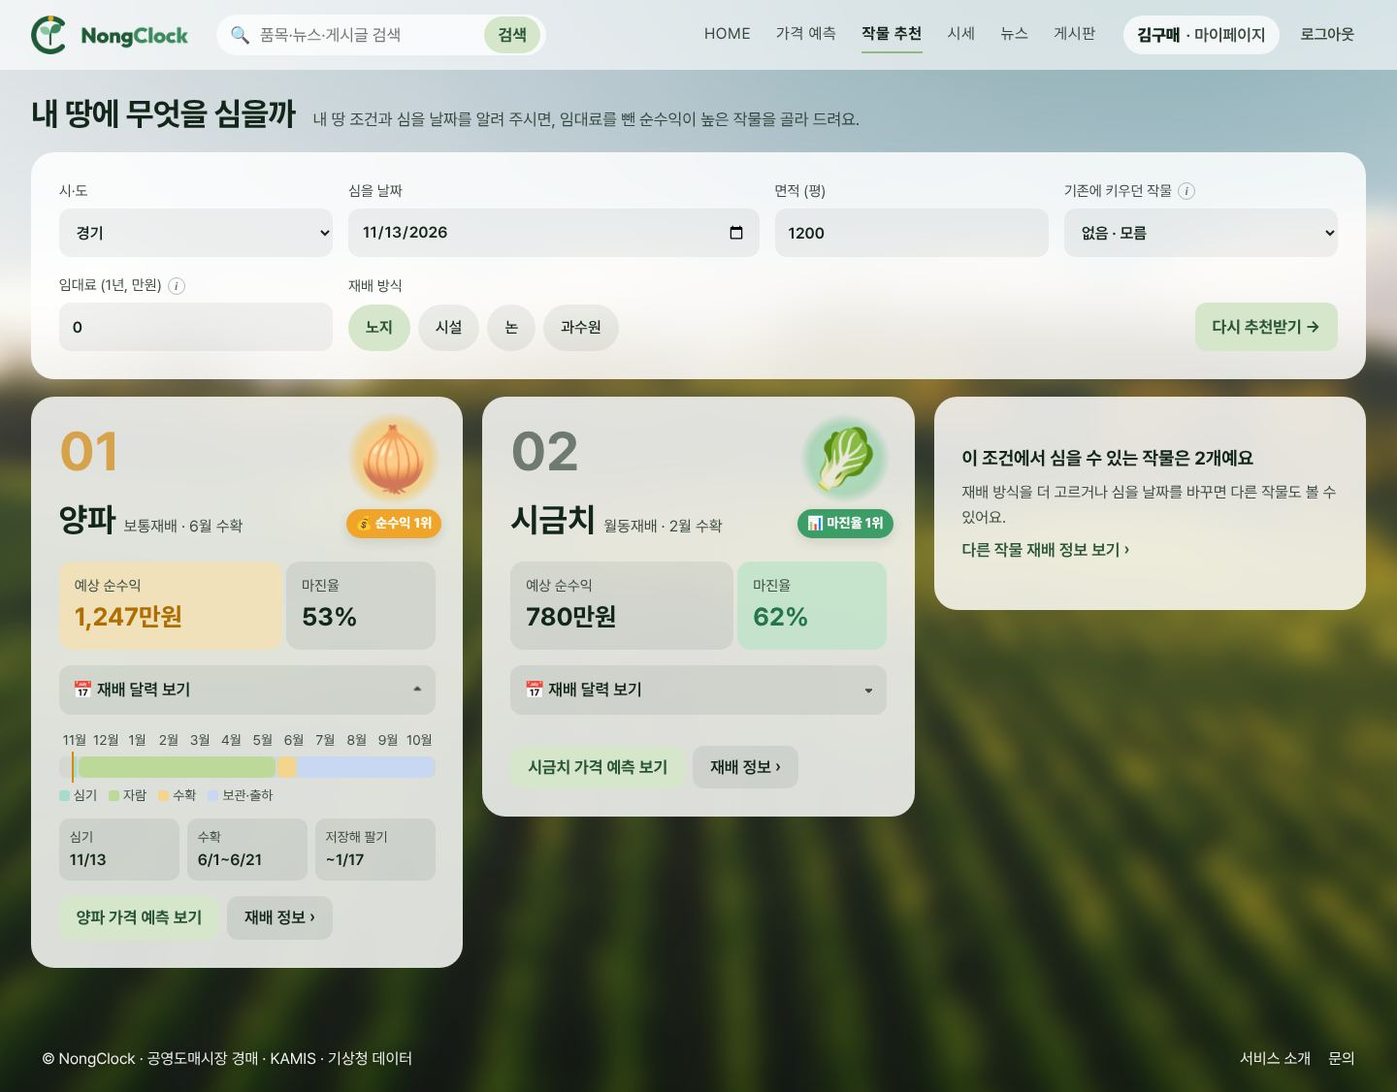
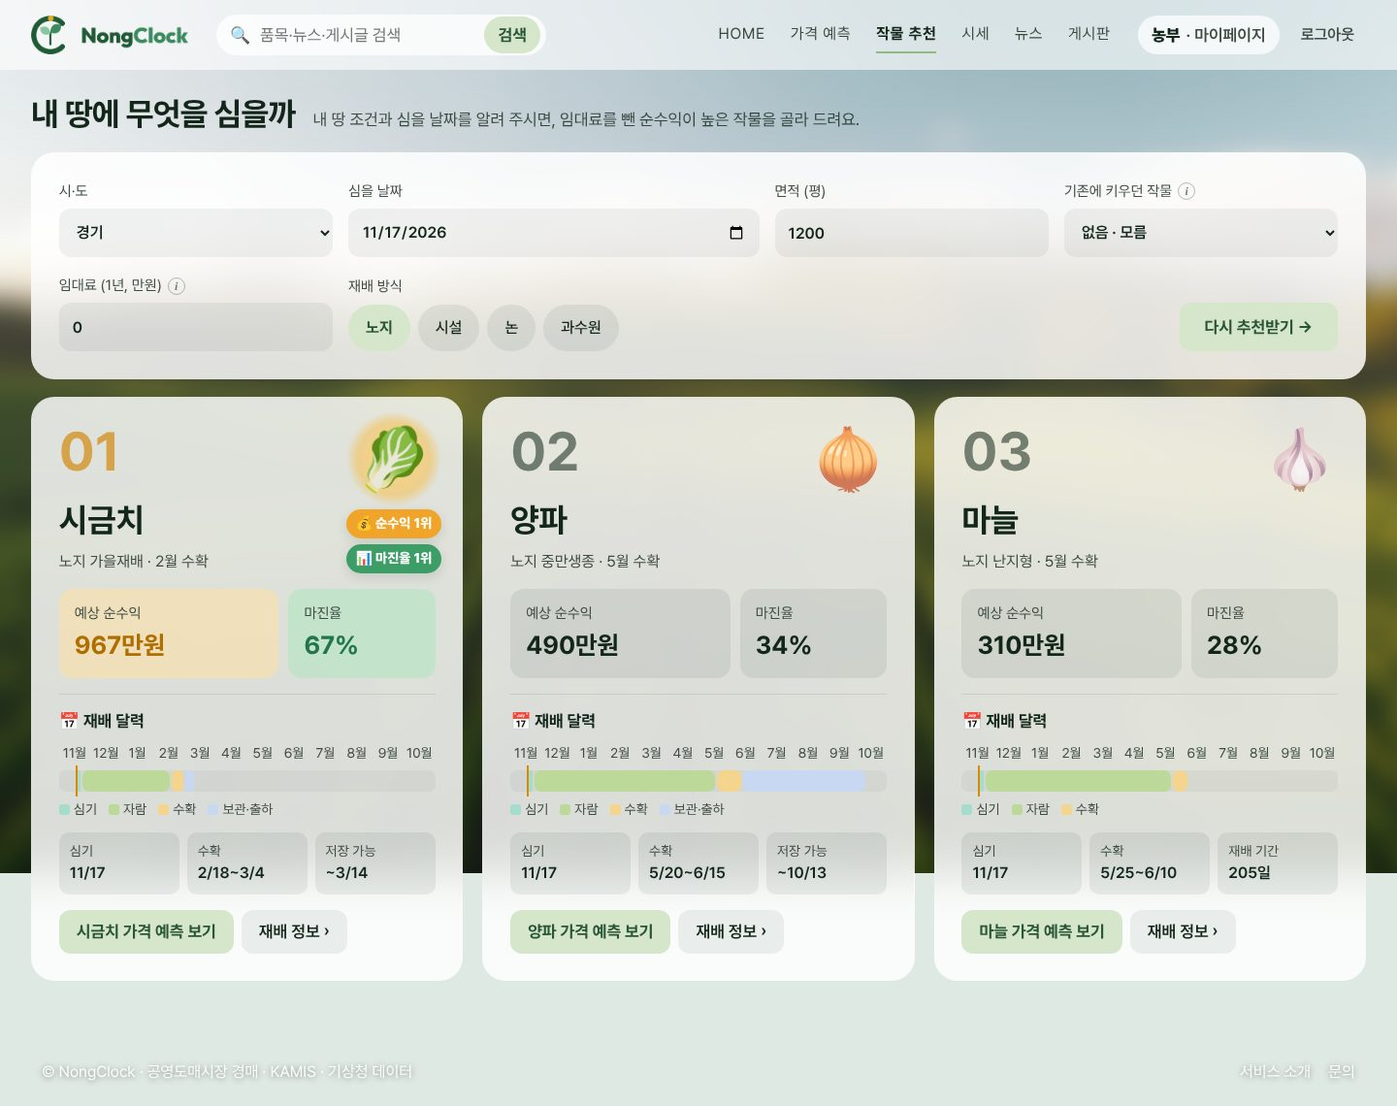
feat(ui): 서비스 소개 도착 칸 강조 · 작물 추천 재배 달력 늘 보임 · 관심 품목 고르기 개편
- 서비스 소개: 다른 화면 링크(#faq-range 등)로 들어오면 그 칸을 2.6초 동안 강조
  (노란 바탕 + 주황 테두리, #items 는 "50 품목" 숫자 칸, 움직임 줄이기 설정 대응)
- 작물 추천: 재배 달력 접기 버튼을 없애고 늘 펼침, 같은 줄 카드 높이를 같게 (버튼 줄은 맨 아래)
- 마이페이지 관심 품목 고르기: 고른 품목 줄(× 빼기) · 이름/초성 검색 · 부류 탭 · 품목 칸
  (저장은 팀의 차례 저장 방식 그대로 PUT /api/me/favorites, 품목 목록은 shared/items50.json)
- docs/05_ui_spec.md 3·8·10장 + 변경 이력, 캡처 03_recommend · 08_about 교체, 10b_mypage_watch 추가

Claude-Session: https://claude.ai/code/session_01A5Bz2YFgwDEj3wEsMnATng

diff --git a/frontend/src/pages/mypage/Favorites.jsx b/frontend/src/pages/mypage/Favorites.jsx
@@ -1,11 +1,11 @@
 import { useEffect, useRef, useState } from "react";
-import { getItems, predict } from "../../api/ml";
+import { predict } from "../../api/ml";
 import { getTodayPrices } from "../../api/market";
 import { useAuth } from "../../components/AuthContext";
 import { Async, PctChange, PriceChange, SectionHead, useAsync } from "../../components/common";
 import { wonPerKg } from "../../utils/format";
 import ItemImage from "../../components/ItemImage";
-import { IN50 } from "../../mocks/items50";
+import { CATEGORIES50, ITEMS50, itemOf } from "../../mocks/items50";
 
 /** 관심 품목의 오늘 시세 변동 + AI 1주 예측 (마이페이지 상단) */
 export default function FavoriteAlerts({ onEdit }) {
@@ -48,17 +48,25 @@ export default function FavoriteAlerts({ onEdit }) {
   );
 }
 
+/* 관심 품목 고르기 화면 (11-16): 50개를 한 번에 늘어놓지 않고
+   위에 "고른 품목"(× 로 빼기) · 이름/초성 검색 · 부류 탭 → 그 부류 품목만 칸으로 보여 줌. 품목 목록은 shared/items50.json (서버 없이도 뜸) */
+const CHO = "ㄱㄲㄴㄷㄸㄹㅁㅂㅃㅅㅆㅇㅈㅉㅊㅋㅌㅍㅎ";
+const choOf = (s) => [...s].map((ch) => { const c = ch.charCodeAt(0) - 0xac00; return c >= 0 && c < 11172 ? CHO[Math.floor(c / 588)] : ch; }).join("");
+const matches = (name, q) => name.includes(q) || choOf(name).includes(q);
+
 /** 관심 품목 고르기 탭.
  * 11-16: 빠르게 연달아 누르면 하나가 빠지던 문제 — 예전엔 서버 응답(로그인 정보)이 오기 전의 목록으로 다음 저장을 만들어
  * 마지막 저장이 앞의 것을 덮었다. 이제 화면 목록을 바로 바꾸고(latest), 저장은 한 번에 하나씩 차례로 '가장 최근 목록'을 보낸다 */
 export function FavoritePicker() {
   const { user, updateProfile } = useAuth();
-  const items = useAsync(getItems);
   const saved = user.favorites ?? [];
   const [picked, setPicked] = useState(saved);
   const [err, setErr] = useState("");
   const latest = useRef(saved);
   const pending = useRef(0);
+  // 처음 탭: 첫 관심 품목의 부류 (없으면 첫 부류). "전체"는 맨 끝에 둬서 50개가 한꺼번에 뜨지 않게
+  const [cat, setCat] = useState(() => itemOf(saved[0])?.category ?? CATEGORIES50[0]);
+  const [q, setQ] = useState("");
   const chain = useRef(Promise.resolve());
   // 다른 곳(로그인·새로 고침)에서 목록이 바뀌면 따라감 — 저장 중에는 화면 목록이 더 최신이라 그대로 둠
   useEffect(() => {
@@ -81,21 +89,46 @@ export function FavoritePicker() {
         pending.current -= 1;
       });
   };
+  const query = q.replace(/\s/g, "");
+  const shown = query ? ITEMS50.filter((i) => matches(i.name, query)) : ITEMS50.filter((i) => cat === "전체" || i.category === cat);
+  const chosen = picked.map(itemOf).filter(Boolean);
   return (
-    <section className="card">
-      <SectionHead title="관심 품목" desc="탭해서 추가·해제 · 고른 품목은 위 가격 변동에 쓰여요" />
+    <section className="card mp-fav">
+      <SectionHead title="관심 품목" desc="고른 품목은 마이페이지 위 '관심 품목 가격'에 보여요" />
       {err && <p className="error small" role="alert">{err}</p>}
-      <Async state={items}>
-        {(rows) => (
-          <div className="pills">
-            {rows.filter((i) => IN50.has(i.code)).map((i) => (
-              <button key={i.code} className={`pill ${picked.includes(i.code) ? "on" : ""}`} aria-pressed={picked.includes(i.code)} onClick={() => toggle(i.code)}>
-                <ItemImage code={i.code} emoji={i.emoji} alt="" className="xs" /> {i.name}
+      <div className="mp-fav-picked">
+        <span className="lbl">고른 품목 <b>{chosen.length}</b></span>
+        {chosen.length ? chosen.map((i) => (
+          <button key={i.code} type="button" className="chip" onClick={() => toggle(i.code)} aria-label={`${i.name} 빼기`}>
+            <ItemImage code={i.code} emoji={i.emoji} alt="" className="xs" /> {i.name} <span aria-hidden>×</span>
+          </button>
+        )) : <span className="none">아래에서 품목을 눌러 담아 보세요</span>}
+      </div>
+      <div className="mp-fav-bar">
+        <input className="input" type="search" value={q} onChange={(e) => setQ(e.target.value)} placeholder="🔍 품목 이름 또는 초성 (예: ㅇㅍ)" aria-label="품목 검색" />
+        <div className="mp-fav-cats" role="tablist">
+          {[...CATEGORIES50, "전체"].map((c) => (
+            <button key={c} type="button" role="tab" aria-selected={!query && cat === c} className={!query && cat === c ? "on" : ""} onClick={() => { setCat(c); setQ(""); }}>
+              {c}<em>{c === "전체" ? ITEMS50.length : ITEMS50.filter((i) => i.category === c).length}</em>
+            </button>
+          ))}
+        </div>
+      </div>
+      {query && <p className="mp-fav-res">'{q.trim()}' 검색 결과 {shown.length}개</p>}
+      {shown.length ? (
+        <div className="mp-fav-grid">
+          {shown.map((i) => {
+            const on = picked.includes(i.code);
+            return (
+              <button key={i.code} type="button" className={on ? "on" : ""} aria-pressed={on} onClick={() => toggle(i.code)}>
+                <ItemImage code={i.code} emoji={i.emoji} alt="" className="sm" />
+                <span>{i.name}</span>
+                <i aria-hidden>{on ? "✓" : "+"}</i>
               </button>
-            ))}
-          </div>
-        )}
-      </Async>
+            );
+          })}
+        </div>
+      ) : <p className="mp-fav-res">찾는 품목이 없어요. 예측 품목 50개 안에서만 고를 수 있어요.</p>}
     </section>
   );
 }

diff --git a/frontend/src/pages/mypage/mypage.css b/frontend/src/pages/mypage/mypage.css
@@ -65,3 +65,28 @@
 .mp-danger { margin-top: 10px; border: 0; background: none; cursor: pointer; font: inherit; font-size: 15px; color: var(--muted); text-decoration: underline; text-underline-offset: 3px; padding: 0; }
 @media (max-width: 1200px) { .mp-grid { grid-template-columns: 1fr; } .mp-favs { grid-template-columns: repeat(2, minmax(0, 1fr)); } }
 @media (max-width: 640px) { .mp-stats { grid-template-columns: 1fr 1fr; gap: 12px 0; } .mp-stats > *:nth-child(3) { border-left: 0; } .mp-stats.n3 { grid-template-columns: repeat(3, 1fr); } .mp-stats.n3 > * { padding: 2px 10px; } .mp-stats.n3 > *:nth-child(3) { border-left: 1px solid var(--line); } .mp-btns { margin-left: 0; } }
+/* 관심 품목 고르기 (11-16): 고른 품목 줄 · 검색 + 부류 탭 · 품목 칸 */
+.mp-fav { display: grid; gap: 14px; }
+.mp-fav-picked { display: flex; flex-wrap: wrap; align-items: center; gap: 8px; padding: 12px 14px; border-radius: 14px; background: rgba(213, 230, 203, 0.45); }
+.mp-fav-picked .lbl { font-size: 15px; color: var(--muted); margin-right: 4px; }
+.mp-fav-picked .lbl b { color: var(--brand); }
+.mp-fav-picked .chip { display: inline-flex; align-items: center; gap: 6px; border: 0; cursor: pointer; font: inherit; font-size: 15px; font-weight: 600; color: var(--brand); background: #fff; border-radius: 999px; padding: 6px 12px 6px 8px; }
+.mp-fav-picked .chip span { color: var(--muted); font-weight: 400; margin-left: 2px; }
+.mp-fav-picked .chip:hover span { color: #c0392b; }
+.mp-fav-picked .none { font-size: 15px; color: var(--muted); }
+.mp-fav-bar { display: grid; gap: 10px; }
+.mp-fav-bar .input { width: 100%; max-width: 420px; box-sizing: border-box; }
+.mp-fav-cats { display: flex; gap: 6px; overflow-x: auto; padding-bottom: 2px; scrollbar-width: thin; }
+.mp-fav-cats button { flex: none; border: 0; cursor: pointer; font: inherit; font-size: 15px; color: var(--ink); background: var(--chip); border-radius: 999px; padding: 8px 14px; }
+.mp-fav-cats button em { font-style: normal; font-size: 13px; color: var(--muted); margin-left: 5px; }
+.mp-fav-cats button.on { background: var(--brand); color: #fff; font-weight: 700; }
+.mp-fav-cats button.on em { color: rgba(255, 255, 255, 0.75); }
+.mp-fav-res { margin: 0; font-size: 15px; color: var(--muted); }
+.mp-fav-grid { display: grid; grid-template-columns: repeat(auto-fill, minmax(200px, 1fr)); gap: 8px; }
+.mp-fav-grid button { display: flex; align-items: center; gap: 10px; border: 2px solid transparent; cursor: pointer; font: inherit; font-size: 16px; font-weight: 600; color: var(--ink); text-align: left; background: rgba(255, 255, 255, 0.75); border-radius: 14px; padding: 10px 12px; }
+.mp-fav-grid button span { flex: 1; min-width: 0; white-space: nowrap; overflow: hidden; text-overflow: ellipsis; }
+.mp-fav-grid button i { font-style: normal; flex: none; width: 24px; height: 24px; border-radius: 50%; display: grid; place-items: center; font-size: 14px; color: var(--muted); background: rgba(19, 38, 26, 0.07); }
+.mp-fav-grid button:hover { border-color: var(--accent-h); }
+.mp-fav-grid button.on { background: #eef6e8; border-color: #9cc78a; color: var(--brand); }
+.mp-fav-grid button.on i { background: var(--brand); color: #fff; }
+@media (max-width: 560px) { .mp-fav-grid { grid-template-columns: repeat(2, minmax(0, 1fr)); } .mp-fav-grid button { gap: 6px; padding: 8px 8px; font-size: 15px; } .mp-fav-grid button i { width: 20px; height: 20px; font-size: 12px; } }

diff --git a/frontend/src/pages/recommend.css b/frontend/src/pages/recommend.css
@@ -5,7 +5,8 @@
 .rc-f .input { height: 50px; width: 100%; font-weight: 600; }
 .rc-f .pills .pill { padding: 12px 18px; font-size: 16px; }
 .rc-go { grid-column: -2 / -1; justify-self: end; height: 50px; padding: 0 26px; font-size: 17px; }
-.rc-top3 { display: grid; grid-template-columns: repeat(3, minmax(0, 1fr)); gap: 20px; align-items: start; }
+/* 11-16: 카드 높이를 같은 줄끼리 맞춤 (stretch) · 버튼 줄은 .rc-acts margin-top:auto 로 바닥에 */
+.rc-top3 { display: grid; grid-template-columns: repeat(3, minmax(0, 1fr)); gap: 20px; align-items: stretch; }
 .rc-card { position: relative; display: flex; flex-direction: column; gap: 16px; overflow: hidden; }
 .rc-n { font-size: 56px; font-weight: 700; line-height: 1; color: rgba(19, 38, 26, 0.55); }
 .rc-n.first { color: #d6a24a; }
@@ -28,12 +29,6 @@
 .rc-ref { align-self: flex-start; font-size: 15px; color: #7a5a12; background: rgba(246, 224, 176, 0.6); padding: 5px 10px; border-radius: 8px; }
 .rc-why { list-style: none; margin: 0; padding: 0; display: grid; gap: 10px; font-size: 17px; line-height: 1.5; }
 .rc-why li { display: flex; gap: 10px; } .rc-why li::before { content: "✓"; color: #2b7a4b; font-weight: 700; }
-.rc-toggle { display: flex; align-items: center; justify-content: space-between; width: 100%; border: 0; cursor: pointer; font: inherit; font-size: 17px; font-weight: 600; color: var(--ink); background: var(--chip); border-radius: 12px; padding: 12px 14px; }
-.rc-toggle .ar { transition: transform 0.35s; color: var(--muted); }
-.rc-card.open .rc-toggle .ar { transform: rotate(180deg); }
-.rc-exp { display: grid; grid-template-rows: 0fr; transition: grid-template-rows 0.45s cubic-bezier(0.2, 0.8, 0.2, 1); }
-.rc-exp > div { overflow: hidden; }
-.rc-card.open .rc-exp { grid-template-rows: 1fr; }
 .rc-mini .mm { display: grid; grid-template-columns: repeat(12, 1fr); font-size: 14px; color: var(--muted); text-align: center; margin-bottom: 6px; }
 .rc-mini .tr { position: relative; height: 22px; border-radius: 7px; background: rgba(19, 38, 26, 0.04); }
 .rc-mini .tr i { position: absolute; top: 0; height: 22px; border-radius: 7px; }
@@ -45,6 +40,7 @@
 .rc-mini .when { display: grid; grid-template-columns: repeat(3, 1fr); gap: 8px; margin-top: 12px; }
 .rc-mini .when div { background: var(--chip); border-radius: 10px; padding: 9px 11px; font-size: 14px; color: var(--muted); }
 .rc-mini .when b { display: block; font-size: 16px; color: var(--ink); font-weight: 600; }
+.rc-calhead { font-size: 17px; font-weight: 700; color: var(--ink); padding-top: 14px; border-top: 1px solid var(--line); margin-bottom: -6px; }
 .rc-acts { margin-top: auto; display: flex; gap: 8px; flex-wrap: wrap; }
 
 /* 작물 정보 */

diff --git a/frontend/src/pages/About.jsx b/frontend/src/pages/About.jsx
@@ -12,7 +12,8 @@ import "./about.css";
 const N_ITEMS = ITEMS50.length;
 const N_MARKETS = MARKETS.filter((m) => m.code !== "national").length;
 const N_VARIETIES = ITEMS50.reduce((n, i) => n + (i.varieties?.length ?? 0), 0);
-const STATS = [[N_MARKETS, "곳", "공영 도매시장"], [N_ITEMS, "품목", `예측 품목 · 품종 ${N_VARIETIES}가지`], [1, "년", "최대 예측 기간"], ["매일", "", "새 시세로 예측 갱신"]];
+// [값, 단위, 설명, 강조 대상 주소] — 홈의 "품목 50개"(#items)로 들어오면 품목 칸이 깜빡임 (11-16)
+const STATS = [[N_MARKETS, "곳", "공영 도매시장"], [N_ITEMS, "품목", `예측 품목 · 품종 ${N_VARIETIES}가지`, "items"], [1, "년", "최대 예측 기간"], ["매일", "", "새 시세로 예측 갱신"]];
 
 // ✏ 팀 정보와 연락처는 여기만 고치면 된다.
 const TEAM = [
@@ -66,14 +67,23 @@ const FAQ = [
 
 export default function About() {
   // #faq-xxx 로 들어오면 그 질문을 펼치고 그 자리로 (머리말 높이만큼은 CSS scroll-margin)
-  const { hash } = useLocation();
+  // 들어온 직후 그 칸을 잠깐 강조 (11-16). 같은 링크를 다시 눌러도 다시 깜빡이도록 location.key 로 다시 실행
+  const { hash, key } = useLocation();
   useEffect(() => {
     if (!hash) return;
-    const el = document.getElementById(decodeURIComponent(hash.slice(1)));
+    const id = decodeURIComponent(hash.slice(1));
+    const el = document.getElementById(id);
     if (!el) return;
     if (el.tagName === "DETAILS") el.open = true;
     requestAnimationFrame(() => el.scrollIntoView({ block: "start" }));
-  }, [hash]);
+    // 강조할 칸: data-flash 로 따로 정한 칸(예: #items → "품목" 숫자 칸)이 있으면 그것, 없으면 주소 칸 자체
+    const target = document.querySelector(`[data-flash~="${id}"]`) ?? el;
+    target.classList.remove("ab-flash");
+    void target.offsetWidth; // 애니메이션을 처음부터 다시
+    target.classList.add("ab-flash");
+    const t = setTimeout(() => target.classList.remove("ab-flash"), 2600);
+    return () => { clearTimeout(t); target.classList.remove("ab-flash"); };
+  }, [hash, key]);
   return (
     <div className="page ab">
       <section className="card ab-hero" id="items">
@@ -91,8 +101,8 @@ export default function About() {
           </div>
         </div>
         <div className="ab-stats">
-          {STATS.map(([v, u, l]) => (
-            <div key={l}><b>{v}<small>{u}</small></b><span>{l}</span></div>
+          {STATS.map(([v, u, l, flash]) => (
+            <div key={l} data-flash={flash}><b>{v}<small>{u}</small></b><span>{l}</span></div>
           ))}
         </div>
       </section>

diff --git a/frontend/src/pages/Recommend.jsx b/frontend/src/pages/Recommend.jsx
@@ -153,10 +153,10 @@ function MiniCalendar({ o }) {
 }
 
 function CropCard({ o, rank, topProfit, topRate, goInfo }) {
-  const [open, setOpen] = useState(rank === 0);
   const profit = o === topProfit, rate = o === topRate;
+  // 재배 달력은 늘 펼쳐 둠 (11-16) — 카드 높이는 .rc-top3 에서 같은 줄끼리 맞춤
   return (
-    <section className={`card rc-card ${open ? "open" : ""}`}>
+    <section className="card rc-card">
       <span className={`rc-art ${profit ? "profit" : rate ? "rate" : ""}`}>
         <i aria-hidden>{o.emoji}</i>
         {profit && <b className="profit">💰 순수익 1위</b>}
@@ -169,8 +169,8 @@ function CropCard({ o, rank, topProfit, topRate, goInfo }) {
         <div className={rate ? "hi-rate" : ""}><span>마진율</span><b>{Math.round(o.margin_rate)}%</b></div>
       </div>
       {refLine(o) && <span className="rc-ref">ⓘ {refLine(o)}</span>}
-      <button type="button" className="rc-toggle" aria-expanded={open} onClick={() => setOpen(!open)}><span>📅 재배 달력 보기</span><span className="ar">▾</span></button>
-      <div className="rc-exp"><div><MiniCalendar o={o} /></div></div>
+      <div className="rc-calhead">📅 재배 달력</div>
+      <MiniCalendar o={o} />
       <div className="rc-acts">
         {IN50.has(o.crop) && <Link className="btn primary" to={`/ai?item=${o.crop}`}>{o.crop_name} 가격 예측 보기</Link>}
         <button type="button" className="btn" onClick={() => goInfo(o.crop)}>재배 정보 ›</button>

diff --git a/frontend/src/pages/about.css b/frontend/src/pages/about.css
@@ -51,3 +51,15 @@
 #faq, #items, #how, #price, #grades, #team, #contact { scroll-margin-top: 96px; }
 @media (max-width: 860px) { .ab-hero, .ab-two { grid-template-columns: 1fr; } }
 @media (max-width: 560px) { .ab-team, .ab-stats { grid-template-columns: 1fr; } }
+/* 다른 화면 링크로 들어온 칸 잠깐 강조 (11-16): 노란 바탕 + 주황 테두리가 2.6초 동안 두 번 숨 쉬고 사라짐 */
+.ab-flash { animation: ab-flash 2.6s ease-out; }
+@keyframes ab-flash {
+  0%   { box-shadow: 0 0 0 0 rgba(217, 96, 11, 0); background-color: rgba(255, 236, 170, 0); }
+  12%  { box-shadow: 0 0 0 3px rgba(217, 96, 11, .9), 0 0 0 9px rgba(217, 96, 11, .18); background-color: #fff3c4; }
+  35%  { box-shadow: 0 0 0 3px rgba(217, 96, 11, .5), 0 0 0 4px rgba(217, 96, 11, 0); background-color: #fff6d3; }
+  55%  { box-shadow: 0 0 0 3px rgba(217, 96, 11, .9), 0 0 0 9px rgba(217, 96, 11, .18); background-color: #fff3c4; }
+  100% { box-shadow: 0 0 0 0 rgba(217, 96, 11, 0); }
+}
+@media (prefers-reduced-motion: reduce) {
+  .ab-flash { animation: none; box-shadow: 0 0 0 3px rgba(217, 96, 11, .9); background-color: #fff3c4; }
+}

diff --git a/docs/05_ui_spec.md b/docs/05_ui_spec.md
@@ -139,7 +139,8 @@ NongClock(농클락, 옛 이름 팜비드) 사용자 사이트(`/`)와 관리자
 - **순수익 1위**(주황 "💰 순수익 1위") · **마진율 1위**(초록 "📊 마진율 1위") 카드는 그림 부분을 강조
 - 예상 순수익 · 마진율 상자 · 참고용 안내(예측이 덜 정확한 작물·기간만. "수확이 6개월보다 멀어 참고용"은 11-12 뺌). "가격이 ±n% 달라지면" 줄과 계산식 문구는 11-11 뺌
 - 추천 이유 문장(수확·저장 기간 · 비싼 달 · 시장)은 카드에서 뺌(11-12) — 작물 정보의 "추천 결과" 카드에서만 보여 줌
-- 📅 재배 달력 보기(펼침) · [작물 가격 예측 보기] (50품목만) · [재배 정보 ›]
+- 📅 재배 달력(늘 펼쳐 둠, 11-17 — 접기 버튼 없음) · [작물 가격 예측 보기] (50품목만) · [재배 정보 ›]
+- 같은 줄의 카드(작물이 3개 미만이면 "이 조건에서 심을 수 있는 작물은 n개예요" 칸 포함)는 높이를 같게 맞추고, 버튼 줄은 늘 카드 맨 아래 (11-17)
 - 결과가 3개보다 적으면 빈 칸에 "이 조건에서 심을 수 있는 작물은 n개예요" 안내
 - API 1-6 `POST /recommend/crops` (`lands[]`, `start_date`)
 
@@ -217,6 +218,7 @@ API 2-8 ~ 2-11
 - 기능 칸(AI 가격 예측 · 작물 추천 · 관심 품목) · 이렇게 예측해요(수집 1 · 학습 2 · 예측 3 · 활용 4, "내일부터 1년 뒤") · 가격은 이렇게 보여드려요(기준 · 등급 표) · **자주 묻는 질문** · 만든 사람들 · 문의하기
 - **자주 묻는 질문** (11-13, `#faq`): 누르면 펼쳐지는 8개 — 가격 기준(`#faq-price`) · 등급(`#faq-grade`) · 예측 기간(`#faq-range`) · 정확도(`#faq-accuracy`) · 새 예측 시각(`#faq-update`) · 자료 출처(`#faq-source`) · 작물 추천 순수익 계산(`#faq-margin`) · 회원가입 필요 여부(`#faq-member`). 질문 주소로 들어오면 그 질문이 펼쳐짐
 - 다른 화면이 거는 자리: `#items` `#how` `#price` `#price-basis` `#grades` `#faq` `#faq-…` `#team` `#contact`
+- **도착한 칸 잠깐 강조** (11-17): 이 자리 주소로 들어오면(홈 서비스 소개 칸 · 페이지 안 링크) 그 칸이 노란 바탕 + 주황 테두리로 2.6초 동안 두 번 깜빡임. `#items` 는 머리 카드의 "50 품목" 숫자 칸만. 같은 링크를 다시 눌러도 다시 깜빡임, 움직임 줄이기 설정이면 깜빡임 없이 노란 바탕만
 
 ## 9. 로그인 · 회원가입
 
@@ -237,6 +239,9 @@ API 2-8 ~ 2-11
 - 왼쪽: **관심 품목 가격** 카드(오늘 도매가 · 직전 거래일 대비 · 8거래일 흐름 · AI 1주 뒤 예측, 최대 3개 + 바꾸기) · **내가 쓴 글 / 댓글** 탭
 - 오른쪽: **내 정보**(닉네임 · 지역 · 연락처 · 회원 탈퇴). 알림 목록 · 알림 설정 스위치 · 내 정보 수정의 "알림 받기"는 알림 기능을 숨기면서 숨김(11-13)
 - "내 정보 수정"·"관심 품목 더하기"는 같은 화면 안에서 편집 화면으로 (`?tab=profile`, `?tab=watch`)
+- **관심 품목 고르기** (`?tab=watch`, 11-17): 맨 위 "고른 품목 n" 줄(× 로 빼기) · 이름/초성 검색(예: ㅇㅍ) · 부류 탭(가격 예측과 같은 부류 이름 + 개수, 처음은 첫 관심 품목의 부류, "전체 50"은 맨 끝) · 품목 칸(고르면 초록 테두리 ✓). 검색 중에는 부류와 상관없이 50품목에서 찾음. 품목 목록은 `shared/items50.json`
+
+![관심 품목 고르기](ui/10b_mypage_watch.jpg)
 - 신고 내역 탭은 없음 (신고 기능 삭제)
 - 아직 Spring 에 없는 것(관심 품목 · 알림 · 내 글/댓글 · 정보 수정)은 가짜 데이터, 서버 모드에서 내 글/댓글은 "서버 준비 중" — API 제안 2-9
 - API 2장 `/api/me`, 2-4, 2-9
@@ -283,3 +288,4 @@ API 2-8 ~ 2-11
 | 2026-11-12 | 시세: 맨 아래 **도매시장 · 산지** 구역(도매시장별 가격 · 산지공판장 가격, 고른 시장과 상관없이 품목·품종만, 예시 데이터). 구역마다 옅은 유리판으로 묶고 제목 뒤 흰 띠 없앰, "순(10일) 단위" 문구 뺌. 가격 추이 · 반입 동향 요약 칸 높이를 옆 카드에 맞춤. 캡처 `04_market` 교체 | |
 | 2026-11-12 | 시세 조건: "품목 · 품종" 묶음 이름을 빼고 부류 · 품목 · 품종 칸을 날짜 · 시장과 같은 높이로. 캡처 `04_market` 교체 | |
 | 2026-11-13 | **농부에게 불필요한 정보 정리** — 알림 기능 숨김(🔔 · 마이페이지 알림 · 알림 설정, `NOTIFY_ENABLED`), 가격 예측 이상기후 주의 표시 숨김, 계절 패턴 · 월별 반입량 · 도매시장 · 산지 카드의 설명 · 자료 줄 · 예시 데이터 표시 뺌, 시세 카드 아래 부가 설명 뺌, 뉴스 제공 안내 · 검색 "소식 받기" 뺌. 홈 서비스 소개 4칸 + 서비스 소개 페이지 **자주 묻는 질문** 8개. 작물 추천 입력 재배 방식 ↔ 심을 날짜. 관리자: 신고 메뉴 · 신고 칸 숨김, Spring · DB 상태 실제 확인. 캡처 `01`~`12_m_*` 교체 | |
+| 2026-11-17 | 서비스 소개: 다른 화면 링크로 들어온 칸을 잠깐 강조(노란 바탕 · 주황 테두리, `#items` 는 품목 숫자 칸). 작물 추천: 재배 달력 늘 펼침(접기 버튼 없앰) · 카드 높이 같게. 마이페이지 관심 품목 고르기: 고른 품목 줄 · 이름/초성 검색 · 부류 탭 · 품목 칸 (저장 방식은 그대로 PUT /api/me/favorites). 캡처 `03_recommend` · `08_about` 교체, `10b_mypage_watch` 추가 | |
